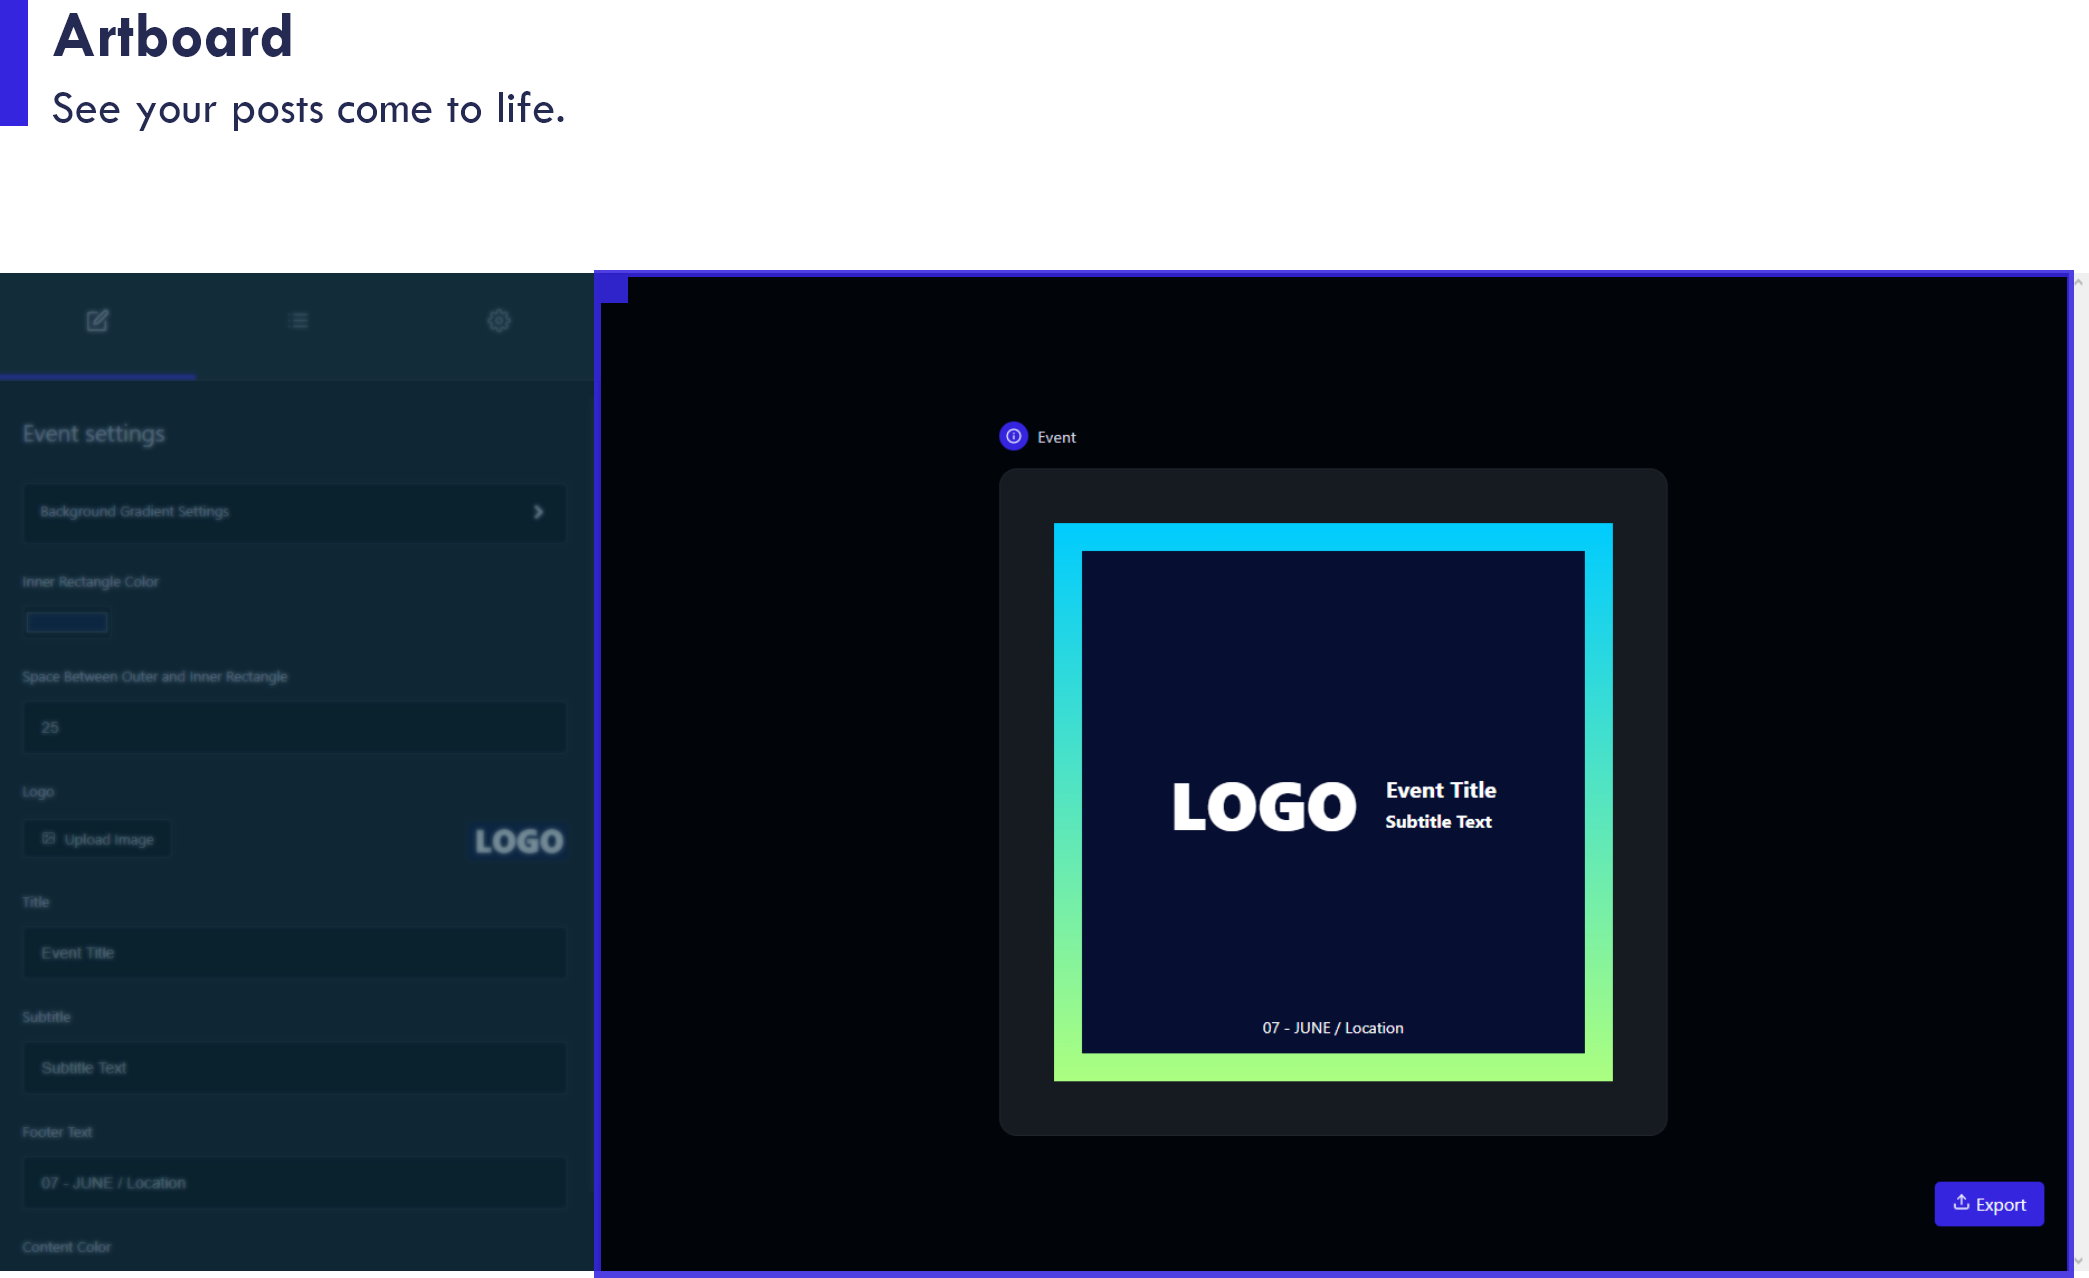
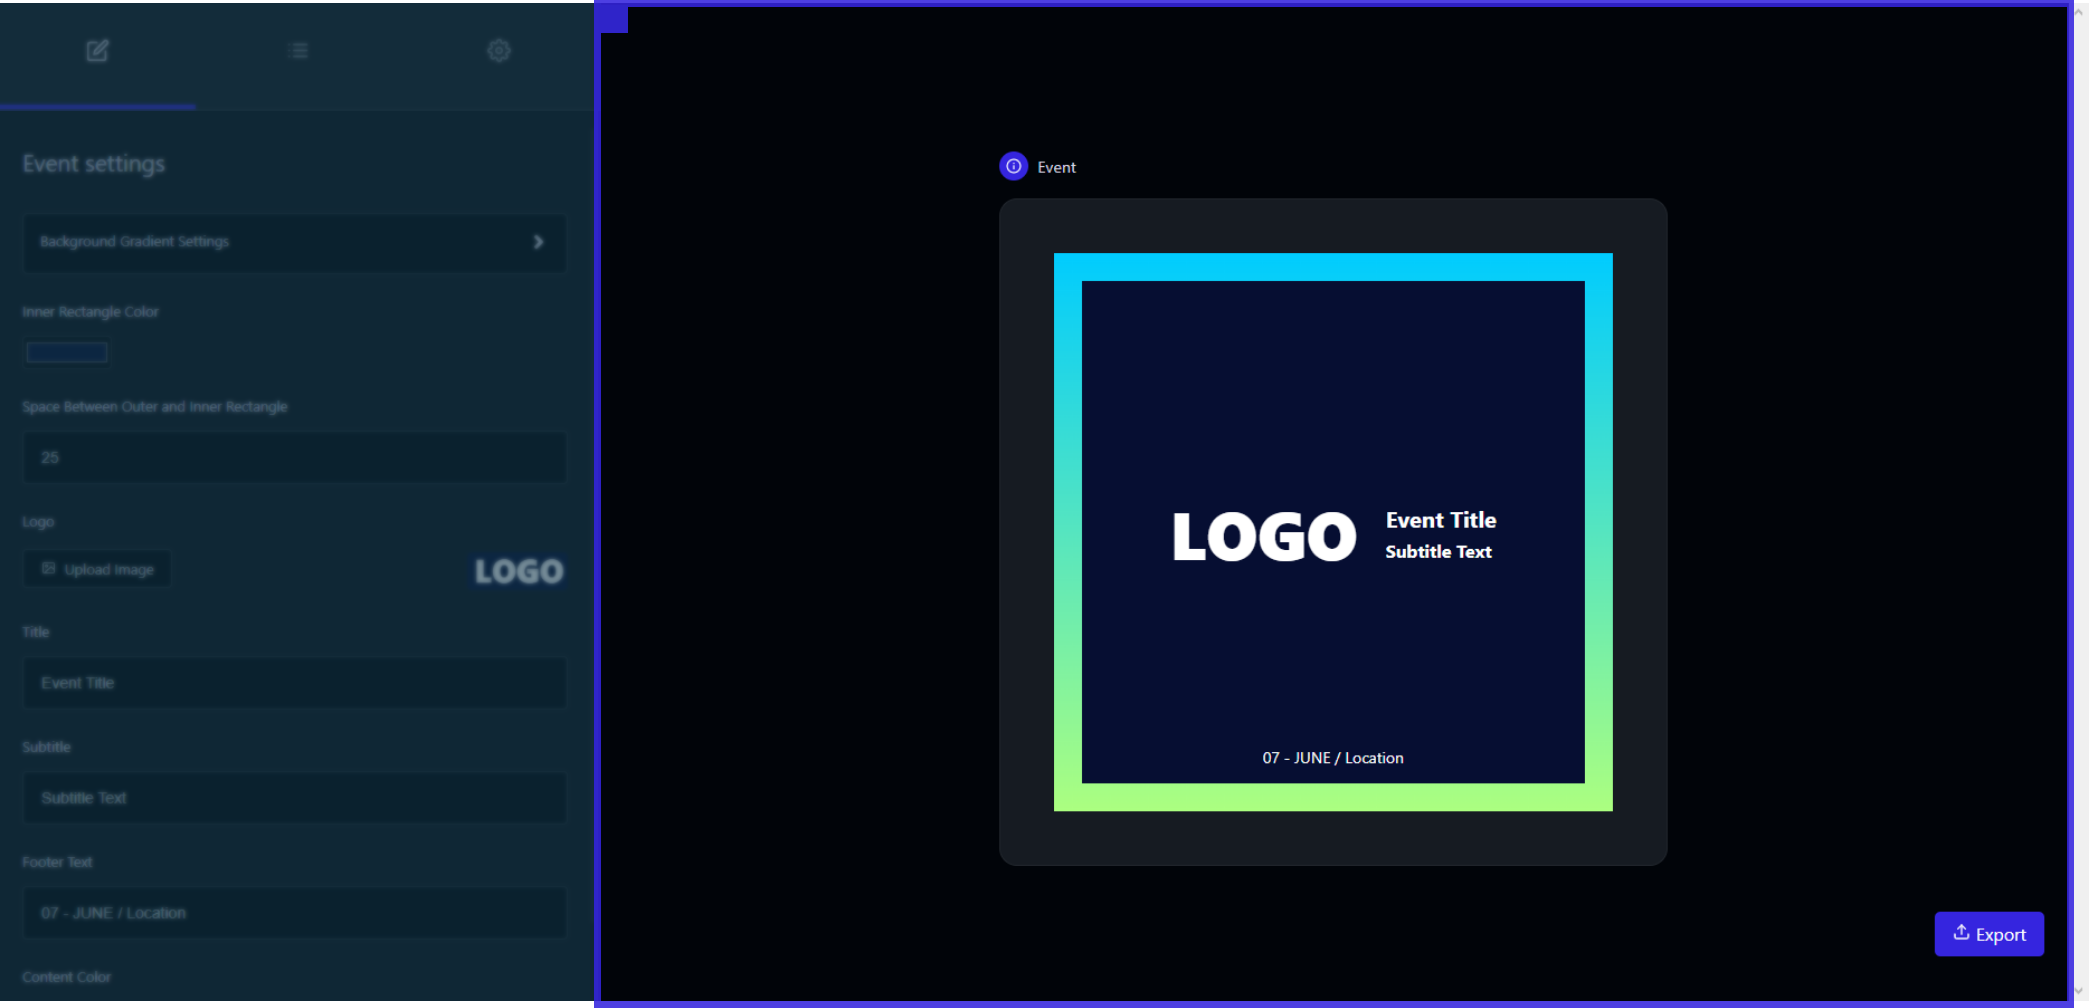
update docs

diff --git a/docs/sidebars.js b/docs/sidebars.js
@@ -20,8 +20,7 @@ const sidebars = {
       type: 'category',
       label: 'Guides',
       items: [
-        'guides/layouts', // Layouts subpage
-        'guides/usage',
+        'guides/layouts'
       ],
     },
     {

diff --git a/docs/docs/development/add_template.md b/docs/docs/development/add_template.md
@@ -1,1 +1,289 @@
 # Add A Template
+
+## Template
+
+The `TemplateInterface` represents the structure of a template. It has the following properties:
+
+<ul><li><code><strong>id</strong></code> (string): The unique identifier of the template.</li><li><code><strong>version</strong></code> (string): The version number of the template.</li><li><code><strong>name</strong></code> (string): The name of the template.</li><li><code><strong>description</strong></code> (string): The description of the template.</li><li><code><strong>height</strong></code> (number): The height of the template.</li><li><code><strong>width</strong></code> (number): The width of the template.</li><li><code><strong>style</strong></code> (string, optional): Additional CSS styles for the template.</li><li><code><strong>render</strong></code> (string): The HTML markup for rendering the template.</li><li><code><strong>settings</strong></code> (array of <code><strong>TemplateSettingsInterface</strong></code>): An array of settings for the template.</li></ul>
+
+## Template Setting
+
+The `TemplateSettingsInterface` represents the structure of a template setting. It has the following properties:
+<ul><li><code><strong>id</strong></code> (string): The unique identifier of the template.</li><li><code><strong>version</strong></code> (string): The version number of the template.</li><li><code><strong>name</strong></code> (string): The name of the template.</li><li><code><strong>description</strong></code> (string): The description of the template.</li><li><code><strong>height</strong></code> (number): The height of the template.</li><li><code><strong>width</strong></code> (number): The width of the template.</li><li><code><strong>style</strong></code> (string, optional): Additional CSS styles for the template.</li><li><code><strong>render</strong></code> (string): The HTML markup for rendering the template.</li><li><code><strong>settings</strong></code> (array of <code><strong>TemplateSettingsInterface</strong></code>): An array of settings for the template.</li></ul>
+
+## Field Types
+
+The Post Builder app supports the following field types:
+
+<ul>
+<li><code><strong>ColorType</strong></code>: Represents a color field.</li>
+<li><code><strong>ImageType</strong></code>: Represents an image field.</li><li><code><strong>NumberType</strong></code>: Represents a number field.</li><li><code><strong>TextType</strong></code>: Represents a text field.</li><li><code><strong>GroupType</strong></code>: Represents a group of child types.</li></ul>
+
+### ColorType
+The `ColorType` represents a color field. It allows users to select a color for a specific setting.
+#### JSON Snippet:
+
+```json
+{
+  "id": "1",
+  "key": "gradient_top_color",
+  "type": { "handle": "FIELD/COLOR" },
+  "version": "1.0",
+  "name": "Gradient Top Color",
+  "description": "Select a color for the top gradient",
+  "value": "#00ccff"
+}
+```
+
+#### Setting Output:
+![Social Craft](../assets/color.png)
+
+
+### ImageType
+The `ImageType` represents an image field. It enables users to add an URL image to display it on the the post.
+#### JSON Snippet:
+
+```json
+{
+  "id": "4",
+  "key": "logo_url",
+  "type": { "handle": "FIELD/URL" },
+  "version": "1.0",
+  "name": "Logo (Image URL)",
+  "description": "Upload a logo image",
+  "value": "https://example.com/logo.png"
+}
+```
+
+#### Setting Output:
+![Social Craft](../assets/image.png)
+
+### TextType
+The `TextType` represents a text field. Users can enter a text value for a specific setting.
+#### JSON Snippet:
+
+```json
+{
+  "id": "5",
+  "key": "title",
+  "type": { "handle": "FIELD/TEXT" },
+  "version": "1.0",
+  "name": "Title",
+  "description": "Enter the title",
+  "value": "Event Title"
+}
+```
+
+#### Setting Output:
+![Social Craft](../assets/text.png)
+
+### NumberType
+The `NumberType` represents a number field. Users can enter a numerical value for a specific setting.
+#### JSON Snippet:
+
+```json
+{
+  "id": "3",
+  "key": "space_between_outer_inner",
+  "type": { "handle": "FIELD/NUMBER" },
+  "version": "1.0",
+  "name": "Space Between Outer and Inner Rectangle",
+  "description": "Enter the space in pixels",
+  "value": 25
+}
+```
+
+#### Setting Output:
+![Social Craft](../assets/number.png)
+
+### GroupType
+The `GroupType`  represents a group of child types. It allows users to group multiple settings together.
+#### JSON Snippet:
+
+```json
+{
+  "id": "1",
+  "key": "bg-gradient-settings",
+  "type": { "handle": "GROUP/ACCORDION" },
+  "version": "1.0",
+  "name": "Background Gradient Settings",
+  "description": "Background Gradient Settings",
+  "value": "",
+  "childSettings": [
+    // Child settings go here...
+  ]
+}
+```
+
+#### Setting Output:
+![Social Craft](../assets/group.png)
+
+## Full Example
+### Json
+```json
+    {
+  "id": 222,
+  "name": "Event",
+  "version": "1.0",
+  "description": "This is an Event template.",
+  "height": 500,
+  "width": 500,
+  "style": ".event_template__content-right * {margin: 0;} .event_template__content-right *:not(:last-child) {margin-bottom: 5px;} .event_template__outer { height: 100%; background-image: linear-gradient(%gradient_top_color%, %gradient_bottom_color%); padding: %space_between_outer_inner%px; } .event_template__inner { color: %content_color%; position: relative; height: 100%; width: 100%; background-color: %inner_rectangle_color%; display: flex; flex-direction: column; justify-content: center; align-items: center;} .event_template__logo {height: %logo_height%px;} .event_template__content { display: flex; gap: 10px; align-items:center; justify-content: center; } .event_template__title { font-size: 20px; font-weight: bold; } .event_template__subtitle { font-size: 16px; font-weight: bold; } .event_template__footer { font-size: 14px; position: absolute; bottom: 14px; }",
+  "render": "<div class='event_template__outer'><div class='event_template__inner'><div class='event_template__content'><div class=event_template__content-left><img class='event_template__logo' src='%logo_url%'></div><div class=event_template__content-right><h2 class='event_template__title'>%title%</h2><p class='event_template__subtitle'>%subtitle%</p></div></div><div class=event_template__footer>%footer_text%</div></div></div>",
+  "settings": [
+    {
+      "id": "1",
+      "key": "bg-gradient-settings",
+      "type": {
+        "handle": "GROUP/ACCORDION"
+      },
+      "version": "1.0",
+      "name": "Background Gradient Settings",
+      "description": "Background Gradient Settings",
+      "value": "",
+      "childSettings": [
+        {
+          "id": "1",
+          "key": "gradient_top_color",
+          "type": {
+            "handle": "FIELD/COLOR"
+          },
+          "version": "1.0",
+          "name": "Gradient Top Color",
+          "description": "Select a color for the top gradient",
+          "value": "#00ccff"
+        },
+        {
+          "id": "2",
+          "key": "gradient_bottom_color",
+          "type": {
+            "handle": "FIELD/COLOR"
+          },
+          "version": "1.0",
+          "name": "Gradient Bottom Color",
+          "description": "Select a color for the bottom gradient",
+          "value": "#acff80"
+        }
+      ]
+    },
+    {
+      "id": "2",
+      "key": "inner_rectangle_color",
+      "type": {
+        "handle": "FIELD/COLOR"
+      },
+      "version": "1.0",
+      "name": "Inner Rectangle Color",
+      "description": "Select a color for the inner rectangle",
+      "value": "#060E32"
+    },
+    {
+      "id": "3",
+      "key": "space_between_outer_inner",
+      "type": {
+        "handle": "FIELD/NUMBER"
+      },
+      "version": "1.0",
+      "name": "Space Between Outer and Inner Rectangle",
+      "description": "Enter the space in pixels",
+      "value": 25
+    },
+    {
+      "id": "9",
+      "key": "logo_height",
+      "type": {
+        "handle": "FIELD/NUMBER"
+      },
+      "version": "1.0",
+      "name": "Logo Height",
+      "description": "Enter the height in pixels",
+      "value": 100
+    },
+    {
+      "id": "4",
+      "key": "logo_url",
+      "type": {
+        "handle": "FIELD/URL"
+      },
+      "version": "1.0",
+      "name": "Logo(Image Url)",
+      "description": "Upload a logo image",
+      "value": "https://shuaa-sticky.netlify.app/assets/img/logo-icon.png"
+    },
+    {
+      "id": "5",
+      "key": "title",
+      "type": {
+        "handle": "FIELD/TEXT"
+      },
+      "version": "1.0",
+      "name": "Title",
+      "description": "Enter the title",
+      "value": "Event Title"
+    },
+    {
+      "id": "6",
+      "key": "subtitle",
+      "type": {
+        "handle": "FIELD/TEXT"
+      },
+      "version": "1.0",
+      "name": "Subtitle",
+      "description": "Enter the subtitle text",
+      "value": "Subtitle Text"
+    },
+    {
+      "id": "7",
+      "key": "footer_text",
+      "type": {
+        "handle": "FIELD/TEXT"
+      },
+      "version": "1.0",
+      "name": "Footer Text",
+      "description": "Enter the footer text",
+      "value": "07 - JUNE / Location"
+    },
+    {
+      "id": "8",
+      "key": "content_color",
+      "type": {
+        "handle": "FIELD/COLOR"
+      },
+      "version": "1.0",
+      "name": "Content Color",
+      "description": "Select a color for content texts",
+      "value": "white"
+    }
+  ]
+}
+```
+### Settings and template render
+![Social Craft](../assets/fullsc.png)
+
+## Customizing the Template
+
+To customize the appearance of the template, you need to create the `style` and `render` properties in your application and include the appropriate placeholders. The app will automatically replace the placeholders with the actual values defined in the template's `settings` array.
+
+### Style Customization
+
+The `style` property contains CSS styles that define the visual presentation of the template. To customize the styles, follow these steps:
+
+1. Create the `style` property: Include the desired CSS styles for your template.
+
+2. Use placeholders from `settings`: Identify the keys of each setting in the template's `settings` array. These keys will serve as placeholders in the `style` property.
+
+### Render Customization
+
+The `render` property contains the HTML markup that defines the structure and content of the template. To customize the render, follow these steps:
+
+1. Create the `render` property: Include the desired HTML markup for your template.
+
+2. Use placeholders from `settings`: Identify the keys of each setting in the template's `settings` array. These keys will serve as placeholders in the `render` property.
+
+### Example
+
+Here's an example of how the `style` and `render` properties may look:
+
+```json
+"style": ".custom-template__content { color: %content_color%; }",
+"render": "<div class='custom-template__outer'><div class='custom-template__inner'><p class='custom-template__content'>%custom_text%</p></div></div>",

diff --git a/docs/docs/guides/layouts.md b/docs/docs/guides/layouts.md
@@ -1,11 +1,27 @@
-# Layouts
+# Usage & Layouts
+
+## Navigation Menu
+This menu provides easy access to the three main sections of the app
 
 ![Navigation Menu](../assets/nav.png)
-*Figure 1: Navigation Menu*
+
+## Artboard
+See your posts come to life.
 
 ![Artboard](../assets/artboard.png)
-*Figure 2: Artboard - Bring Your Posts to Life*
+
+
+## Settings Panel
+Modify and save your post settings.
 
 ![Settings Panel](../assets/panel.png)
-*Figure 3: Settings Panel - Customize and Configure Your Design*
 
+## Templates List
+Select the wanted template and start editing.
+
+![Settings Panel](../assets/template_list.png)
+
+## Appearance
+Select the wanted theme mode.
+
+![Settings Panel](../assets/appearance.png)

diff --git a/docs/docs/getting-started/installation.md b/docs/docs/getting-started/installation.md
@@ -1,6 +1,6 @@
 # Installation
 
-1. Download the Code Craft source code from CodeCanyon.
+1. Download the Social Craft source code from CodeCanyon.
 
 2. Extract the downloaded ZIP file to a folder on your local machine.
 

diff --git a/docs/docs/development/customize_theme_mode.md b/docs/docs/development/customize_theme_mode.md
@@ -1,4 +1,4 @@
-# Customization
+# Theme Modes Customization
 
 ## Customizing Colors in the Application
 

diff --git a/docs/docs/development/structure.md b/docs/docs/development/structure.md
@@ -1,4 +1,4 @@
-# Structure
+# Project Structure
 
 ```bash
     |   App.module.scss
